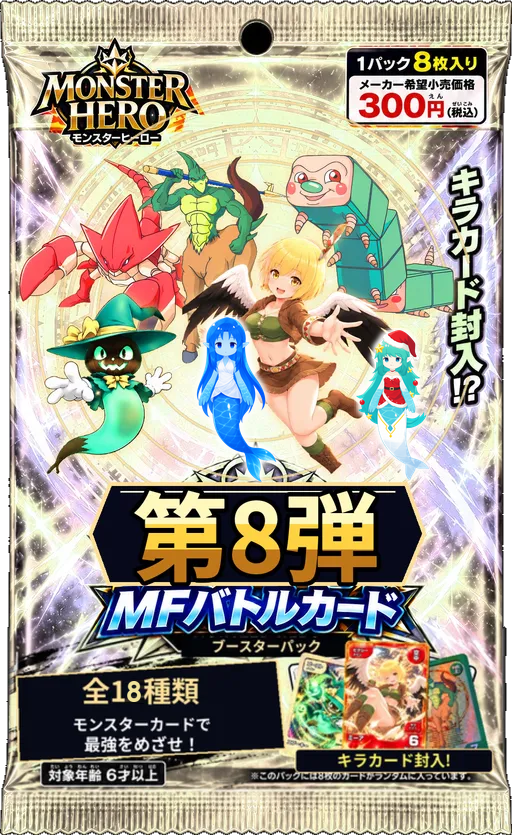
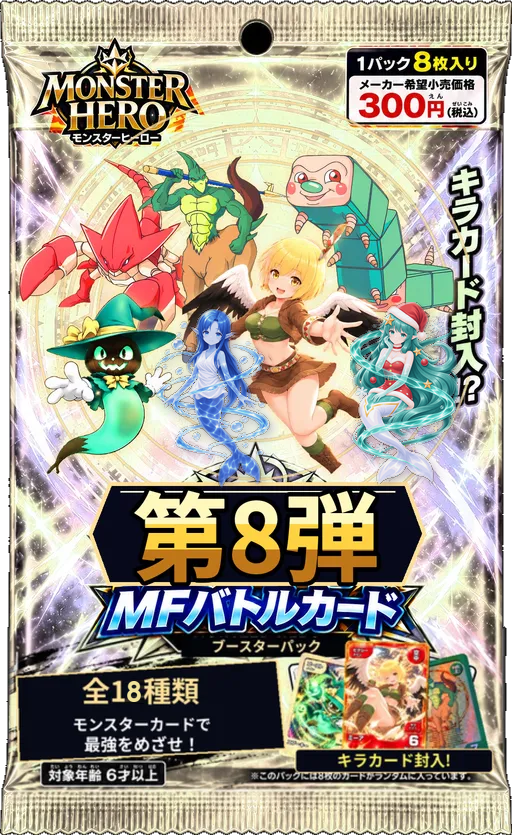
MFバトルカード: 第8弾の袋の絵の見本を作り直す(カードのイラスト・なじませ)
Claude-Session: https://claude.ai/code/session_0113GBaFPewpoywBo89sSfcH

Changed region(s): [[0.6875, 0.3425, 0.9062, 0.5916], [0.3125, 0.3737, 0.5312, 0.5916]]

diff --git a/docs/progress/card-undine/stills/p8-sample-make.py b/docs/progress/card-undine/stills/p8-sample-make.py
@@ -1,18 +1,29 @@
+# 第8弾の袋の絵の見本(全18種類)。使い方: python3 p8-sample-make.py <作業フォルダ(p8.png・届いたカードのイラスト2枚)> <出力.png> 214,490,182,404,488,186
 import sys
 from PIL import Image, ImageDraw, ImageFont, ImageFilter
 S=sys.argv[1]; R='/home/user/monhero/monster-hero/images/monsters/'
 im=Image.open(S+'/p8.png').convert('RGBA')
 def trim(p):
   a=Image.open(p).convert('RGBA'); return a.crop(a.getchannel('A').getbbox())
-def put(a,cx,bottom,h,shadow=True):
+def blend(a):
+  # 袋の絵になじませる: 彩度と濃さを少し落とし、明るめに寄せ、ふちを薄く
+  from PIL import ImageEnhance
+  rgb=a.convert('RGB'); al=a.getchannel('A')
+  rgb=ImageEnhance.Color(rgb).enhance(0.88); rgb=ImageEnhance.Contrast(rgb).enhance(0.92); rgb=ImageEnhance.Brightness(rgb).enhance(1.04)
+  al=al.filter(ImageFilter.GaussianBlur(1.2))
+  out=rgb.convert('RGBA'); out.putalpha(al); return out
+def put(a,cx,bottom,h,shadow=False):
   w=round(a.width*h/a.height); a=a.resize((w,h),Image.LANCZOS)
   x=cx-w//2; y=bottom-h
   if shadow:
     sh=Image.new('RGBA',a.size,(255,255,255,0)); sh.putalpha(a.getchannel('A').filter(ImageFilter.GaussianBlur(3)).point(lambda v:min(255,int(v*0.9))))
     glow=Image.new('RGBA',a.size,(255,255,255,255)); glow.putalpha(sh.getchannel('A'))
     for dx,dy in [(-2,0),(2,0),(0,-2),(0,2)]: im.alpha_composite(glow,(x+dx,y+dy))
-  im.alpha_composite(a,(x,y))
-un=trim(R+'undine.PNG'); sn=trim(R+'snegurochka.png')
+  # 影: 下に薄い紫の影(まわりの光の色)
+  sh=Image.new('RGBA',a.size,(60,40,90,0)); sh.putalpha(a.getchannel('A').filter(ImageFilter.GaussianBlur(5)).point(lambda v:int(v*0.35)))
+  im.alpha_composite(sh,(x+3,y+4))
+  im.alpha_composite(blend(a),(x,y))
+un=trim(S+'/undine-stand-from-president.png'); sn=trim(S+'/snegurachka-stand-from-president.png')
 cfg=[float(v) for v in sys.argv[3].split(',')] if len(sys.argv)>3 else [232,478,150,392,478,140]
 put(un,int(cfg[0]),int(cfg[1]),int(cfg[2])); put(sn,int(cfg[3]),int(cfg[4]),int(cfg[5]))
 # 「全12種類」の「2」を「8」に
